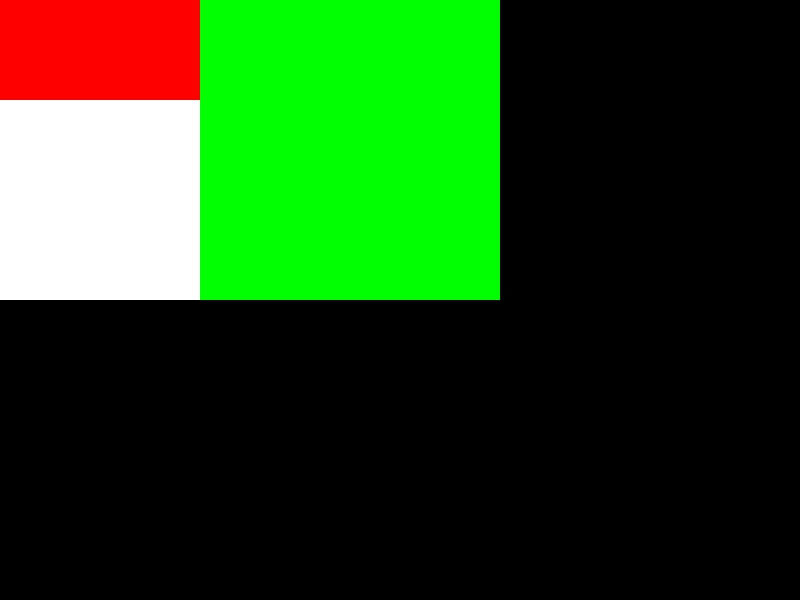
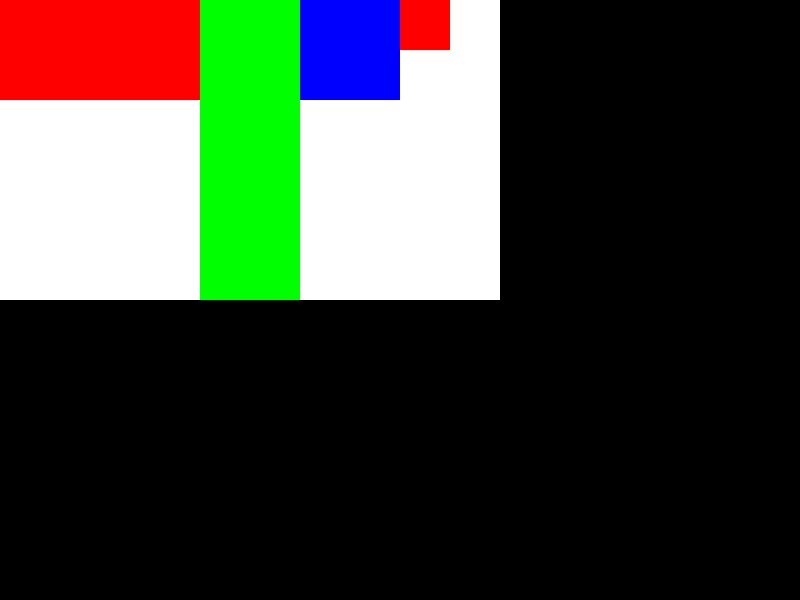
feat: add CSS Compound Selector

Changed region(s): [[0.375, 0.0, 0.625, 0.51]]

diff --git a/week08/toy-browser/parser.js b/week08/toy-browser/parser.js
@@ -27,22 +27,42 @@ function addCSSRules(text){
 function match(element, selector){
     if(!selector || !element.attributes)
         return false;
-    // TODO：实现复合选择器
-    if(selector.charAt(0) == "#"){
-        var attr = element.attributes.filter(attr => attr.name === "id")[0];
-        if(attr && attr.value === selector.replace("#", ''))
-            return true;
-    }else if(selector.charAt(0) == "."){
-        var attr = element.attributes.filter(attr => attr.name === "class")[0];
-        if(attr && attr.value === selector.replace(".", ''))
-            return true;
-        // TODO: <div class="cls1 cls2"> 匹配多个class的情况（遍历for）
-    }else{
-        if(element.tagName === selector){
-            return true;
+    // 实现复合选择器：
+    // 复合选择器是 div#id.cls1.cls2 的形式
+    // 1.   拆分复合选择器为简单选择器数组 ['div', '#id', '.cls1', '.cls2']
+    let compounds = selector.split(/(?=[\#\.])/g); // 把复合选择器拆分为简单选择器数组
+
+    // 2.   遍历这个简单选择器数组，寻找匹配当前元素必须匹配简单选择器数组的每一项，否则复合选择器匹配失败。
+    for(let sel of compounds){
+        // 寻找复合选择器中的简单选择器必须匹配
+        if(sel.charAt(0) == "#"){
+            let attr = element.attributes.filter(attr => attr.name === "id")[0];
+            // 2.1  若有 id ，则必须完全匹配，否则整个复合选择器匹配失败，返回false。
+            if(!(attr && attr.value === sel.replace("#", '')))
+                return false; 
+        }else if(sel.charAt(0) == "."){
+            let attr = element.attributes.filter(attr => attr.name === "class")[0];
+            // 2.2  若有class， 则元素的class列表中，至少匹配一个，否则整个复合选择器匹配失败。
+            //      class是列表，所以需要遍历查找。
+            let classFound = false;
+            if(attr && attr.value){
+                let attrs = attr.value.split(/\s+/g);
+                for(let singleAttr of attrs){
+                    if(singleAttr === sel.replace(".", '')){
+                        classFound = true;
+                        break;
+                    }
+                }
+            }
+            if(!classFound)
+                return false;
+        }else{
+            // 2.3  若有tag， 则也必须完全匹配，否则整个复合选择器匹配失败，返回false。
+            if(element.tagName !== sel)
+                return false;
         }
     }
-    return false;
+    return true; // 若全部通过，则匹配复合选择器成功。
 }
 
 function specificity(selector){

diff --git a/week08/toy-browser/server.js b/week08/toy-browser/server.js
@@ -49,12 +49,26 @@ const server = http.createServer((req,res) => {
     flex:1;
     background-color:rgb(0,255,0);
 }
+#myid2.c2{
+    flex: 1;
+    width: 100px;
+    height: 100px;
+    background-color:rgb(0,0,255)
+}
+.c4{
+    flex:1;
+    width: 50px;
+    height: 50px;
+    background-color:rgb(255,0,0)
+}
     </style>
 </head>
 <body>
     <div id="container">
         <div id="myid"></div>
         <div class="c1"></div>
+        <div id="myid2" class="c2"></div>
+        <div class="c3 c4"></div>
     </div>
 </body>
 </html>`);
